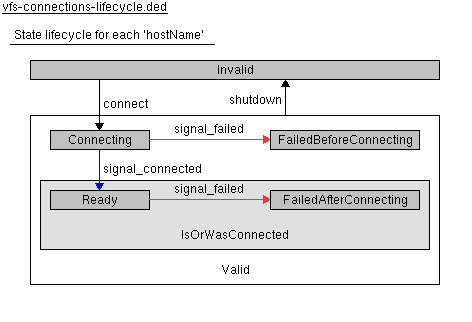
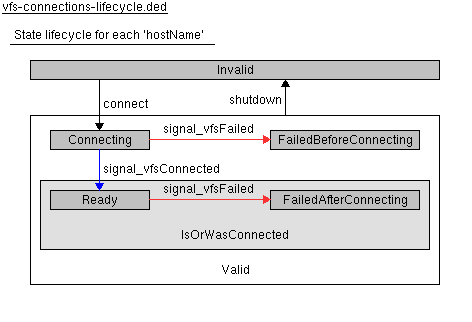
vfs-query, vfs-connections: Rename signals and slots to include "vfs".

Changed region(s): [[0.2966, 0.4969, 0.5339, 0.6211], [0.3559, 0.3727, 0.5339, 0.4348]]

diff --git a/vfs-connections.cc b/vfs-connections.cc
@@ -38,12 +38,12 @@ VFS_Connections::Connection::Connection(VFS_Connections *connections,
   //
   // It might be a good idea to change this to have the Connection
   // object handle the signals directly.
-  QObject::connect(m_fsQuery.get(), &VFS_FileSystemQuery::signal_connected,
-                   m_connections, &VFS_Connections::on_connected);
-  QObject::connect(m_fsQuery.get(), &VFS_FileSystemQuery::signal_replyAvailable,
+  QObject::connect(m_fsQuery.get(), &VFS_FileSystemQuery::signal_vfsConnected,
+                   m_connections, &VFS_Connections::on_vfsConnected);
+  QObject::connect(m_fsQuery.get(), &VFS_FileSystemQuery::signal_vfsReplyAvailable,
                    m_connections, &VFS_Connections::on_vfsReplyAvailable);
-  QObject::connect(m_fsQuery.get(), &VFS_FileSystemQuery::signal_failureAvailable,
-                   m_connections, &VFS_Connections::on_failureAvailable);
+  QObject::connect(m_fsQuery.get(), &VFS_FileSystemQuery::signal_vfsFailureAvailable,
+                   m_connections, &VFS_Connections::on_vfsFailureAvailable);
 
   m_fsQuery->connect(m_hostName);
 }
@@ -431,9 +431,9 @@ VFS_Connections::Connection * NULLABLE
 }
 
 
-void VFS_Connections::on_connected() NOEXCEPT
+void VFS_Connections::on_vfsConnected() NOEXCEPT
 {
-  TRACE("VFS_Connections", "on_connected");
+  TRACE("VFS_Connections", "on_vfsConnected");
 
   GENERIC_CATCH_BEGIN
 
@@ -444,7 +444,7 @@ void VFS_Connections::on_connected() NOEXCEPT
     return;
   }
 
-  TRACE("VFS_Connections", "on_connected: did not find recipient");
+  TRACE("VFS_Connections", "on_vfsConnected: did not find recipient");
 
   GENERIC_CATCH_END
 }
@@ -487,7 +487,7 @@ void VFS_Connections::on_vfsReplyAvailable() NOEXCEPT
 
             // Only now do we regard this as "connected" from the client
             // perspective.
-            Q_EMIT signal_connected(c->m_hostName);
+            Q_EMIT signal_vfsConnected(c->m_hostName);
           }
           else {
             c->m_fsQuery->markAsFailed(
@@ -515,7 +515,7 @@ void VFS_Connections::on_vfsReplyAvailable() NOEXCEPT
       c->m_currentRequestID = 0;
 
       // Notify clients.
-      Q_EMIT signal_replyAvailable(requestID);
+      Q_EMIT signal_vfsReplyAvailable(requestID);
     }
 
     // Send the next request, if there is one.
@@ -530,9 +530,9 @@ void VFS_Connections::on_vfsReplyAvailable() NOEXCEPT
 }
 
 
-void VFS_Connections::on_failureAvailable() NOEXCEPT
+void VFS_Connections::on_vfsFailureAvailable() NOEXCEPT
 {
-  TRACE("VFS_Connections", "on_failureAvailable");
+  TRACE("VFS_Connections", "on_vfsFailureAvailable");
 
   GENERIC_CATCH_BEGIN
 
@@ -541,10 +541,10 @@ void VFS_Connections::on_failureAvailable() NOEXCEPT
     c->m_currentRequestID = 0;
     xassert(connectionFailed(c->m_hostName));
 
-    Q_EMIT signal_failed(c->m_hostName, reason);
+    Q_EMIT signal_vfsFailed(c->m_hostName, reason);
   }
   else {
-    TRACE("VFS_Connections", "on_failureAvailable: did not find recipient");
+    TRACE("VFS_Connections", "on_vfsFailureAvailable: did not find recipient");
   }
 
   GENERIC_CATCH_END

diff --git a/connections-dialog.cc b/connections-dialog.cc
@@ -107,10 +107,10 @@ ConnectionsDialog::ConnectionsDialog(VFS_Connections *vfsConnections)
     #undef ADD_BUTTON
   }
 
-  QObject::connect(m_vfsConnections, &VFS_Connections::signal_connected,
-                   this, &ConnectionsDialog::on_connected);
-  QObject::connect(m_vfsConnections, &VFS_Connections::signal_failed,
-                   this, &ConnectionsDialog::on_failed);
+  QObject::connect(m_vfsConnections, &VFS_Connections::signal_vfsConnected,
+                   this, &ConnectionsDialog::on_vfsConnected);
+  QObject::connect(m_vfsConnections, &VFS_Connections::signal_vfsFailed,
+                   this, &ConnectionsDialog::on_vfsFailed);
 
   repopulateTable();
   m_tableWidget->setCurrentCell(0, 0);
@@ -257,9 +257,9 @@ void ConnectionsDialog::keyPressEvent(QKeyEvent *k) noexcept
 }
 
 
-void ConnectionsDialog::on_connected(HostName hostName) noexcept
+void ConnectionsDialog::on_vfsConnected(HostName hostName) noexcept
 {
-  TRACE("ConnectionsDialog", "on_connected: host=" << hostName);
+  TRACE("ConnectionsDialog", "on_vfsConnected: host=" << hostName);
 
   GENERIC_CATCH_BEGIN
 
@@ -270,9 +270,9 @@ void ConnectionsDialog::on_connected(HostName hostName) noexcept
 }
 
 
-void ConnectionsDialog::on_failed(HostName hostName, string reason) noexcept
+void ConnectionsDialog::on_vfsFailed(HostName hostName, string reason) noexcept
 {
-  TRACE("ConnectionsDialog", "on_failed: host=" << hostName);
+  TRACE("ConnectionsDialog", "on_vfsFailed: host=" << hostName);
 
   GENERIC_CATCH_BEGIN
 

diff --git a/vfs-connections-test.cc b/vfs-connections-test.cc
@@ -32,12 +32,12 @@ VFS_ConnectionsTest::VFS_ConnectionsTest(int argc, char **argv)
     m_secondaryHostName = HostName::asSSH(toString(arguments().at(1)));
   }
 
-  QObject::connect(&m_vfsConnections, &VFS_Connections::signal_connected,
-                   this, &VFS_ConnectionsTest::on_connected);
-  QObject::connect(&m_vfsConnections, &VFS_Connections::signal_replyAvailable,
+  QObject::connect(&m_vfsConnections, &VFS_Connections::signal_vfsConnected,
+                   this, &VFS_ConnectionsTest::on_vfsConnected);
+  QObject::connect(&m_vfsConnections, &VFS_Connections::signal_vfsReplyAvailable,
                    this, &VFS_ConnectionsTest::on_vfsReplyAvailable);
-  QObject::connect(&m_vfsConnections, &VFS_Connections::signal_failed,
-                   this, &VFS_ConnectionsTest::on_failed);
+  QObject::connect(&m_vfsConnections, &VFS_Connections::signal_vfsFailed,
+                   this, &VFS_ConnectionsTest::on_vfsFailed);
 }
 
 
@@ -259,7 +259,7 @@ void VFS_ConnectionsTest::runTests()
 }
 
 
-void VFS_ConnectionsTest::on_connected(HostName hostName) NOEXCEPT
+void VFS_ConnectionsTest::on_vfsConnected(HostName hostName) NOEXCEPT
 {
   cout << "connected to " << hostName << endl;
   m_eventLoop.exit();
@@ -274,7 +274,7 @@ void VFS_ConnectionsTest::on_vfsReplyAvailable(
 }
 
 
-void VFS_ConnectionsTest::on_failed(
+void VFS_ConnectionsTest::on_vfsFailed(
   HostName hostName, string reason) NOEXCEPT
 {
   cout << "connection lost: host=" << hostName

diff --git a/vfs-connections.h b/vfs-connections.h
@@ -222,8 +222,8 @@ public:      // methods
   bool localIsReady() const { return isReady(HostName::asLocal()); }
 
   // True if we finished connecting to 'hostName' (and therefore became
-  // 'isReady' and emitted 'signal_connected'), even if we then lost the
-  // connection.
+  // 'isReady' and emitted 'signal_vfsConnected'), even if we then lost
+  // the connection.
   bool isOrWasConnected(HostName const &hostName) const;
 
   // Return the absolute path that clients should normally start in when
@@ -305,19 +305,19 @@ public:      // methods
 
 Q_SIGNALS:
   // Emitted when 'isConnecting()' transitions to 'isReady()'.
-  void signal_connected(HostName hostName);
+  void signal_vfsConnected(HostName hostName);
 
   // Emitted when 'replyIsAvailable(requestID)' becomes true.
-  void signal_replyAvailable(RequestID requestID);
+  void signal_vfsReplyAvailable(RequestID requestID);
 
   // Emitted when 'connectionFailed' becomes true.
-  void signal_failed(HostName hostName, string reason);
+  void signal_vfsFailed(HostName hostName, string reason);
 
 protected Q_SLOTS:
   // Handlers for VFS_FileSystemQuery.
-  void on_connected() NOEXCEPT;
+  void on_vfsConnected() NOEXCEPT;
   void on_vfsReplyAvailable() NOEXCEPT;
-  void on_failureAvailable() NOEXCEPT;
+  void on_vfsFailureAvailable() NOEXCEPT;
 };
 
 

diff --git a/editor-fs-server-test.cc b/editor-fs-server-test.cc
@@ -21,12 +21,12 @@ FSServerTest::FSServerTest(int argc, char **argv)
     m_eventLoop(),
     m_fsQuery()
 {
-  QObject::connect(&m_fsQuery, &VFS_FileSystemQuery::signal_connected,
-                   this, &FSServerTest::on_connected);
-  QObject::connect(&m_fsQuery, &VFS_FileSystemQuery::signal_replyAvailable,
+  QObject::connect(&m_fsQuery, &VFS_FileSystemQuery::signal_vfsConnected,
+                   this, &FSServerTest::on_vfsConnected);
+  QObject::connect(&m_fsQuery, &VFS_FileSystemQuery::signal_vfsReplyAvailable,
                    this, &FSServerTest::on_vfsReplyAvailable);
-  QObject::connect(&m_fsQuery, &VFS_FileSystemQuery::signal_failureAvailable,
-                   this, &FSServerTest::on_failureAvailable);
+  QObject::connect(&m_fsQuery, &VFS_FileSystemQuery::signal_vfsFailureAvailable,
+                   this, &FSServerTest::on_vfsFailureAvailable);
 }
 
 
@@ -264,7 +264,7 @@ void FSServerTest::runGetDirEntriesTest()
 }
 
 
-void FSServerTest::on_connected() NOEXCEPT
+void FSServerTest::on_vfsConnected() NOEXCEPT
 {
   m_eventLoop.exit();
 }
@@ -274,7 +274,7 @@ void FSServerTest::on_vfsReplyAvailable() NOEXCEPT
   m_eventLoop.exit();
 }
 
-void FSServerTest::on_failureAvailable() NOEXCEPT
+void FSServerTest::on_vfsFailureAvailable() NOEXCEPT
 {
   m_eventLoop.exit();
 }

diff --git a/vfs-query-sync.cc b/vfs-query-sync.cc
@@ -33,10 +33,10 @@ VFS_QuerySync::VFS_QuerySync(
   m_eventLoop(),
   m_timer()
 {
-  QObject::connect(m_vfsConnections, &VFS_Connections::signal_replyAvailable,
+  QObject::connect(m_vfsConnections, &VFS_Connections::signal_vfsReplyAvailable,
                    this, &VFS_QuerySync::on_vfsReplyAvailable);
-  QObject::connect(m_vfsConnections, &VFS_Connections::signal_failed,
-                   this, &VFS_QuerySync::on_failed);
+  QObject::connect(m_vfsConnections, &VFS_Connections::signal_vfsFailed,
+                   this, &VFS_QuerySync::on_vfsFailed);
   QObject::connect(&m_timer, &QTimer::timeout,
                    this, &VFS_QuerySync::on_timeout);
 
@@ -183,7 +183,7 @@ void VFS_QuerySync::on_vfsReplyAvailable(RequestID requestID) NOEXCEPT
 }
 
 
-void VFS_QuerySync::on_failed(
+void VFS_QuerySync::on_vfsFailed(
   HostName hostName, string reason) NOEXCEPT
 {
   if (m_requestID != 0 && hostName == m_hostName) {

diff --git a/vfs-query.h b/vfs-query.h
@@ -136,7 +136,7 @@ public:      // methods
   // This can be useful when a client sees an invalid response from the
   // server and wants to mark the connection as invalid.
   //
-  // Calling this causes the 'signal_failureAvailable' signal to be
+  // Calling this causes the 'signal_vfsFailureAvailable' signal to be
   // emitted (unless there was a prior failure; the signal is only sent
   // once).
   //
@@ -157,13 +157,13 @@ public:      // methods
 
 Q_SIGNALS:
   // Emitted when state() transitions from S_CONNECTING to S_READY.
-  void signal_connected();
+  void signal_vfsConnected();
 
   // Emitted when state() becomes S_HAS_REPLY.
-  void signal_replyAvailable();
+  void signal_vfsReplyAvailable();
 
   // Emitted when state() becomes S_FAILED.
-  void signal_failureAvailable();
+  void signal_vfsFailureAvailable();
 
 protected Q_SLOTS:
   // Handlers for CommandRunner signals.

diff --git a/vfs-query.cc b/vfs-query.cc
@@ -87,7 +87,7 @@ void VFS_FileSystemQuery::recordFailure(string const &reason)
   if (state() != S_FAILED) {
     setState(S_FAILED);
     m_failureReason = reason;
-    Q_EMIT signal_failureAvailable();
+    Q_EMIT signal_vfsFailureAvailable();
   }
   else {
     TRACE("VFS_FileSystemQuery",
@@ -152,7 +152,7 @@ void VFS_FileSystemQuery::checkForCompleteReply()
         TRACE("VFS_FileSystemQuery", "confirmed protocol compatibility");
         setState(S_READY);
         m_replyMessage.reset(nullptr);
-        Q_EMIT signal_connected();
+        Q_EMIT signal_vfsConnected();
       }
       else {
         recordFailure(stringb(
@@ -172,7 +172,7 @@ void VFS_FileSystemQuery::checkForCompleteReply()
 
   else {
     setState(S_HAS_REPLY);
-    Q_EMIT signal_replyAvailable();
+    Q_EMIT signal_vfsReplyAvailable();
   }
 }
 

diff --git a/editor-widget.cc b/editor-widget.cc
@@ -179,9 +179,9 @@ EditorWidget::EditorWidget(NamedTextDocument *tdf,
   // editor widget.
   installEventFilter(this);
 
-  QObject::connect(vfsConnections(), &VFS_Connections::signal_replyAvailable,
+  QObject::connect(vfsConnections(), &VFS_Connections::signal_vfsReplyAvailable,
                    this, &EditorWidget::on_vfsReplyAvailable);
-  QObject::connect(vfsConnections(), &VFS_Connections::signal_failed,
+  QObject::connect(vfsConnections(), &VFS_Connections::signal_vfsFailed,
                    this, &EditorWidget::on_vfsConnectionFailed);
 
   EditorWidget::s_objectCount++;

diff --git a/editor-global.cc b/editor-global.cc
@@ -241,7 +241,7 @@ EditorGlobal::EditorGlobal(int argc, char **argv)
 
   // Establish the initial VFS connection before creating the first
   // EditorWindow, since the EW can issue VFS requests.
-  QObject::connect(&m_vfsConnections, &VFS_Connections::signal_failed,
+  QObject::connect(&m_vfsConnections, &VFS_Connections::signal_vfsFailed,
                    this, &EditorGlobal::on_vfsConnectionFailed);
   m_vfsConnections.connectLocal();
 

diff --git a/vfs-connections-test.h b/vfs-connections-test.h
@@ -66,9 +66,9 @@ public:      // methods
 
 public Q_SLOTS:
   // Handlers for VFS_Connections signals.
-  void on_connected(HostName hostName) NOEXCEPT;
+  void on_vfsConnected(HostName hostName) NOEXCEPT;
   void on_vfsReplyAvailable(VFS_Connections::RequestID requestID) NOEXCEPT;
-  void on_failed(HostName hostName, string reason) NOEXCEPT;
+  void on_vfsFailed(HostName hostName, string reason) NOEXCEPT;
 };
 
 

diff --git a/connections-dialog.h b/connections-dialog.h
@@ -75,8 +75,8 @@ public:      // methods
 
 private Q_SLOTS:
   // Handlers for connection state changes.
-  void on_connected(HostName hostName) noexcept;
-  void on_failed(HostName hostName, string reason) noexcept;
+  void on_vfsConnected(HostName hostName) noexcept;
+  void on_vfsFailed(HostName hostName, string reason) noexcept;
 
   // Handlers for button presses.
   void on_refreshPressed() noexcept;
